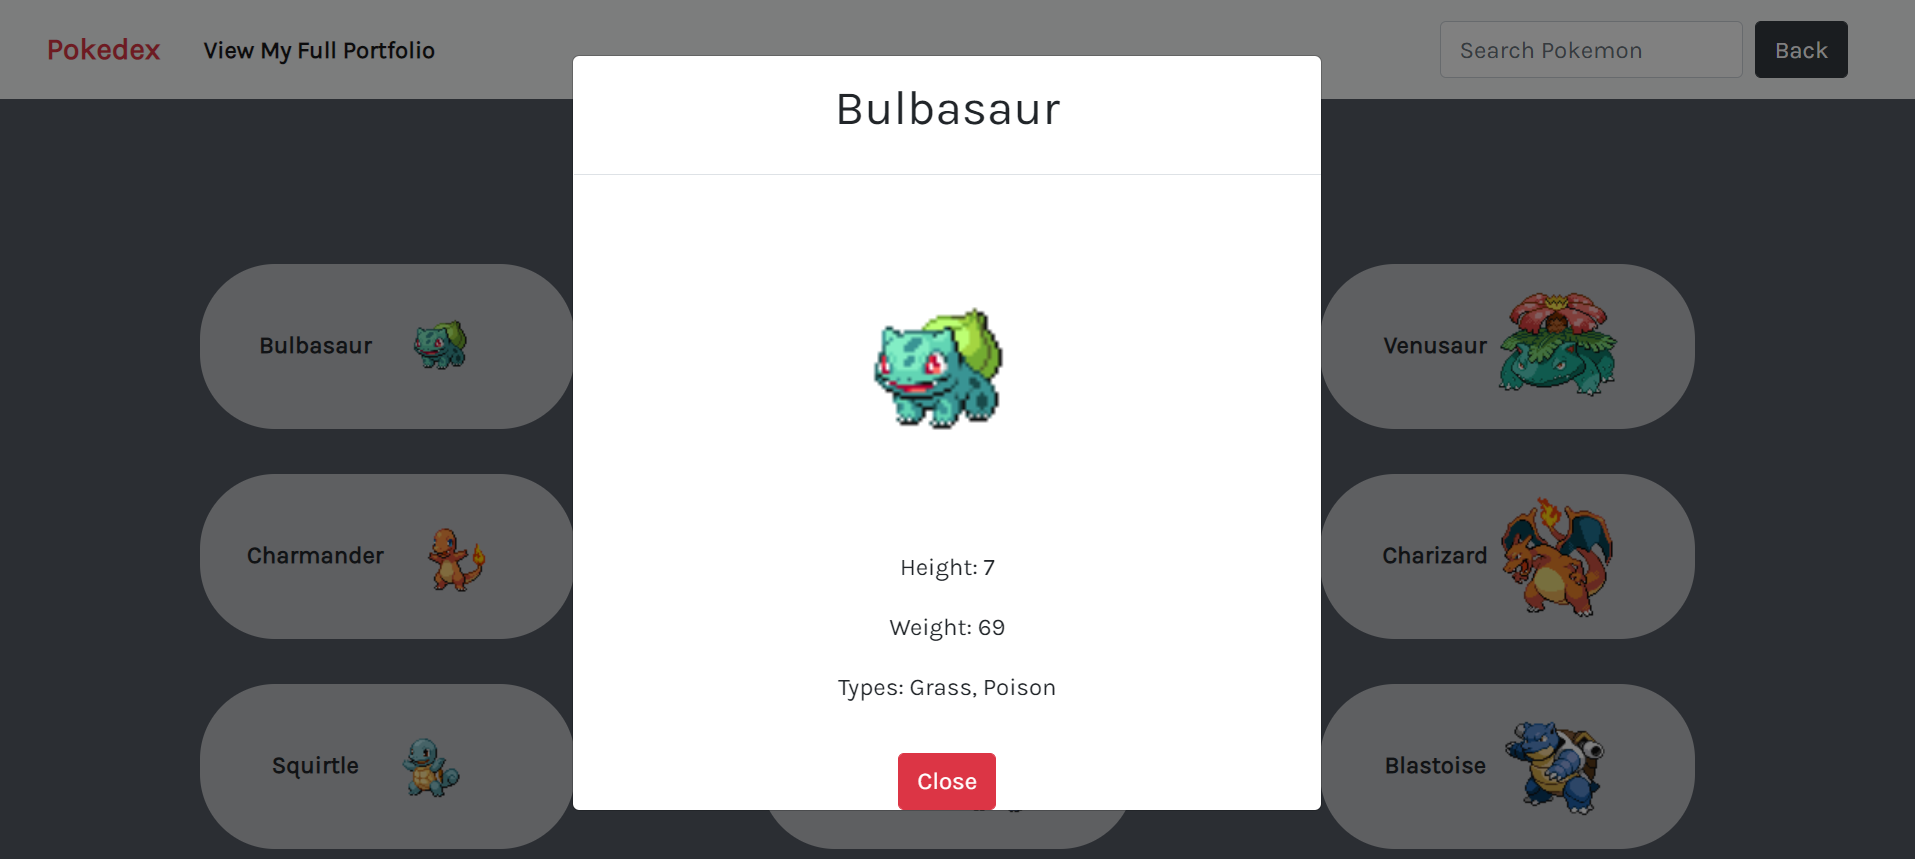
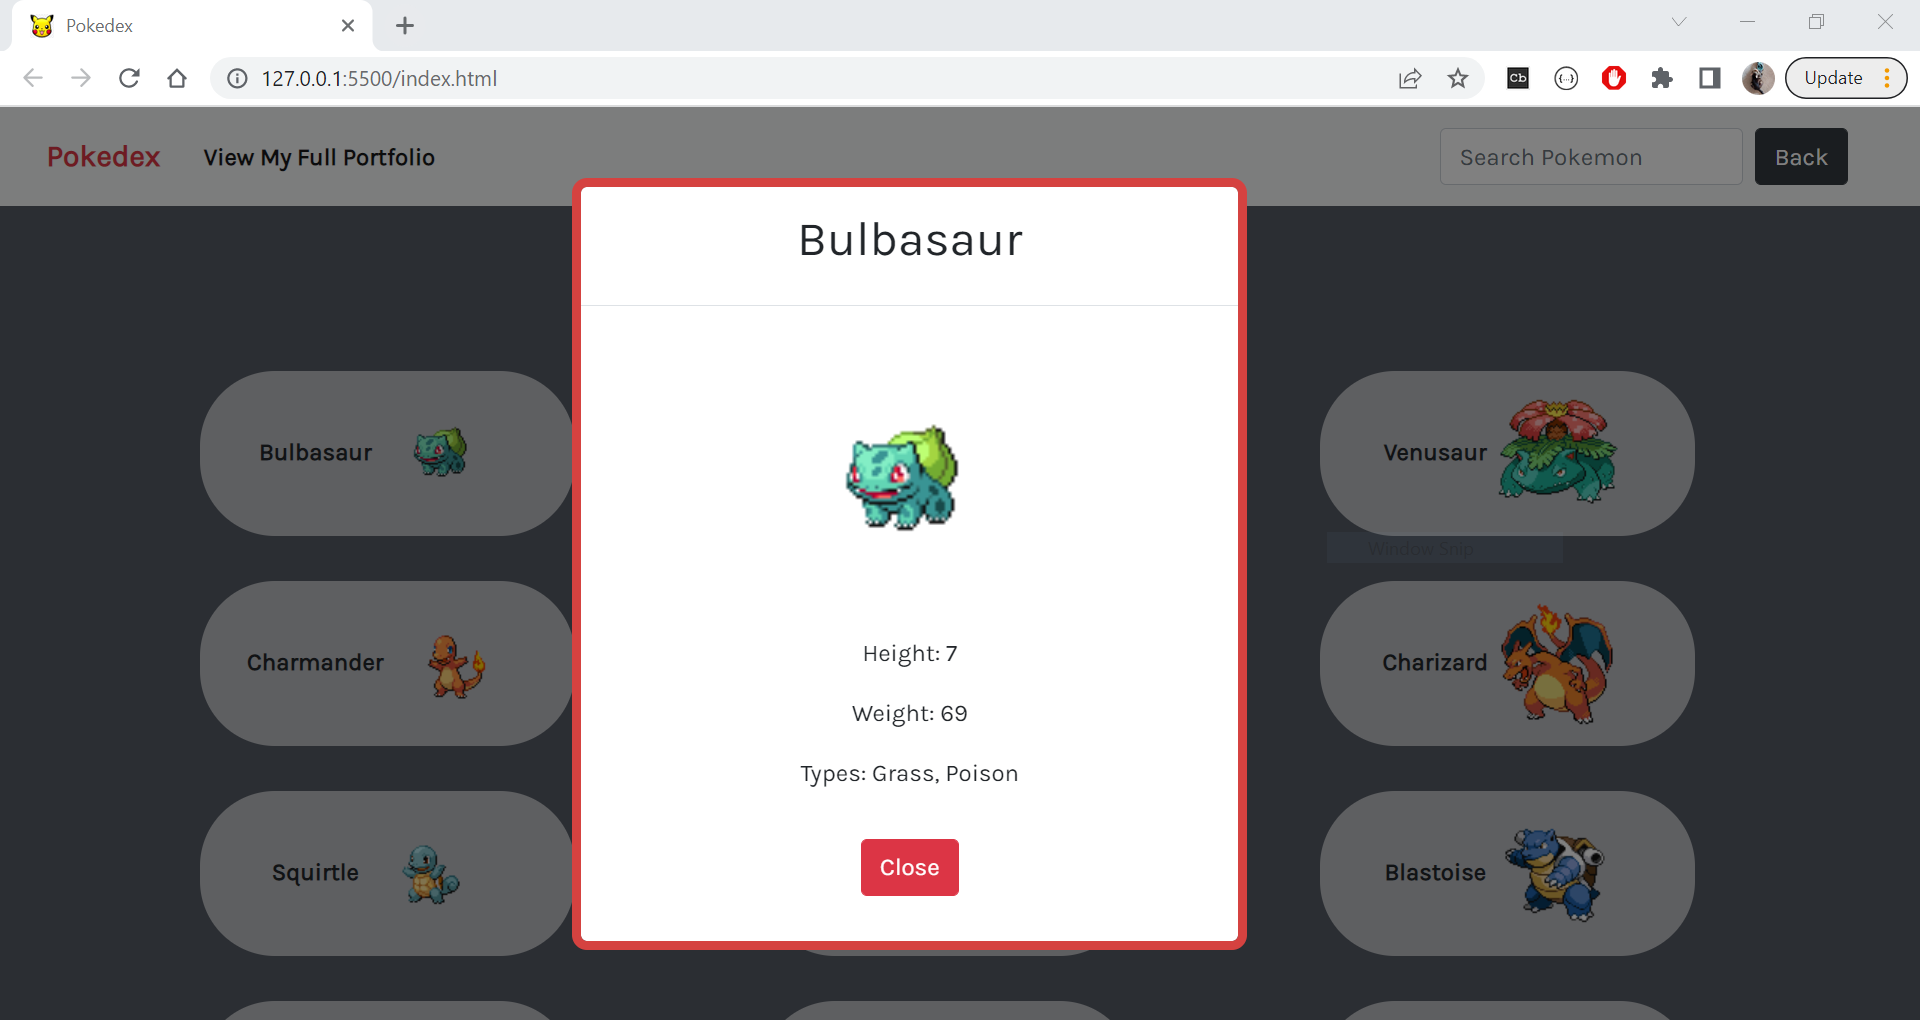
update modal border

diff --git a/dist/styles.css b/dist/styles.css
@@ -1,1 +1,1 @@
-:root {--background: #555B65;--red: #D54240;}* {box-sizing: border-box;font-family: 'Karla', sans-serif;}#page-header {font-weight: 600;}body {background-color: var(--background);padding: 0px;}.pokemon-list {display: grid;grid-template-columns: 1fr 1fr 1fr;text-align: center;grid-row-gap: 10px;grid-column-gap: 10px;margin: auto;}.pokemon-buttons {background-color: #BBBDC1;border-radius: 50px;width: 250px;margin: 5px;cursor: pointer;font-weight: 600;transition: 0.4s;}.pokemon-buttons:hover {background-color: var(--red);color: white;}.page-container {margin-top: 100px;}li {list-style: none;padding: 5px;}@media (max-width: 700px) {.pokemon-list {grid-template-columns: 1fr;grid-column-gap: 50px;}}@media (max-width: 450px) {.pokemon-list {grid-template-columns: 1fr;grid-column-gap: 50px;}}@media (min-width: 700px) and (max-width: 1100px) {.pokemon-list {grid-template-columns: 1fr 1fr;grid-column-gap: 20px;}}
+:root{--background:#555B65;--red:#D54240}*{box-sizing:border-box;font-family:'Karla',sans-serif}#page-header{font-weight:600}body{background-color:var(--background);padding:0}.pokemon-list{display:grid;grid-template-columns:1fr 1fr 1fr;text-align:center;grid-row-gap:10px;grid-column-gap:10px;margin:auto}.pokemon-buttons{background-color:#BBBDC1;border-radius:50px;width:250px;margin:5px;cursor:pointer;font-weight:600;transition:.4s}.modal-content{padding-bottom:30px;border:6px solid var(--red);box-shadow:16ps 14px 20px #0000008c;border-radius:10px;max-width:450px}.pokemon-buttons:hover{background-color:var(--red);color:#fff}.page-container{margin-top:100px}li{list-style:none;padding:5px}@media (max-width: 700px){.pokemon-list{grid-template-columns:1fr;grid-column-gap:50px}}@media (max-width: 450px){.pokemon-list{grid-template-columns:1fr;grid-column-gap:50px}}@media (min-width: 700px) and (max-width: 1100px){.pokemon-list{grid-template-columns:1fr 1fr;grid-column-gap:20px}}

diff --git a/src/css/styles.css b/src/css/styles.css
@@ -35,6 +35,14 @@ body {
     font-weight: 600;
     transition: 0.4s;
 }
+
+.modal-content {
+    padding-bottom: 30px;
+    border: 6px solid var(--red);
+    box-shadow: 16ps 14px 20px #0000008c;
+    border-radius: 10px;
+    max-width: 450px;
+}
   
 .pokemon-buttons:hover {
     background-color: var(--red);
